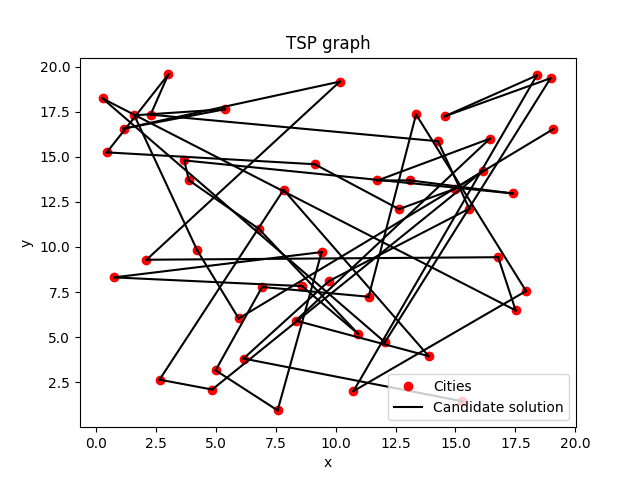
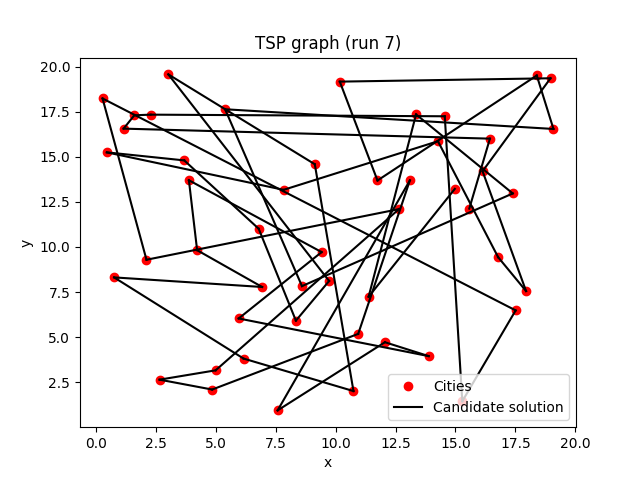
Better tsp graph

Changed region(s): [[0.1562, 0.1562, 0.875, 0.875], [0.4062, 0.0625, 0.625, 0.125], [0.6562, 0.7188, 0.7812, 0.8438]]

diff --git a/ex3.py b/ex3.py
@@ -33,11 +33,14 @@ gens = 1500 # Generations
 mu = 0.01 # Mutation probability
 mu_cross = 0.1 # Crossover probability
 pool = 500 # Size of pool
-fit_scores_plot = np.zeros((gens))
-cs = np.zeros((pool, len(data)))
-prev_best = 0
-fit_tot = np.zeros((runs, gens))
-best_route = []
+fit_scores_plot = np.zeros((gens)) # For plotting runs
+cs = np.zeros((pool, len(data))) # Canidates
+prev_best = 0 
+fit_tot = np.zeros((runs, gens)) # For comptuting mean of fitness over runs
+best_route = [] # Best route per generation
+best_run_nr = 0 # Keeping track which run has highest fitness
+best_route_run = np.zeros((runs, len(data))) # Storing the best route of each run
+prev_fittest = 0 # Keeping track which run has highest fitness
 
 def crossover(p1, p2):
     '''Applies crossover permutation
@@ -156,11 +159,15 @@ for r in range(runs):
         best_route_gen.append(cs[np.argmax(fit_scores)])
 
     # Best route of run
-    best_route = (best_route_gen[-1])
-    print(f'Best route of run: {best_route}')
+    best_route_run[r] = (best_route_gen[-1])
+    if fit_scores_plot[-1] > prev_fittest:
+        prev_fittest = fit_scores_plot[-1]
+        best_run_nr = r
     
     plt.plot(np.arange(gens), fit_scores_plot, '--', label=f'run {r+1}')
     fit_tot[r, :] = fit_scores_plot
+
+print(f'Best route (run {best_run_nr+1}): \n{best_route_run[best_run_nr]}')
 
 plt.plot(np.arange(gens), np.mean(np.array(fit_tot), axis=0), 'k', label='Avg')
 plt.title(f'Simple EA on TSP problem for {runs} runs')
@@ -173,15 +180,15 @@ plt.show()
 
 plt.figure()
 plt.plot(data[:, 0], data[:, 1], 'ro')
-for i in range(len(best_route)-1):
-    point1 = best_route[i]
-    point2 = best_route[i+1]
+for i in range(len(best_route_run[best_run_nr])-1):
+    point1 = best_route_run[best_run_nr][i]
+    point2 = best_route_run[best_run_nr][i+1]
     xp1 = data[int(point1), 0]
     yp1 = data[int(point1), 1]
     xp2 = data[int(point2), 0]
     yp2 = data[int(point2), 1]
     plt.plot([xp1, xp2], [yp1, yp2], 'k-')
-plt.title('TSP graph')
+plt.title(f'TSP graph (run {best_run_nr+1})')
 plt.xlabel('x')
 plt.ylabel('y')
 plt.legend(['Cities', 'Candidate solution'])
